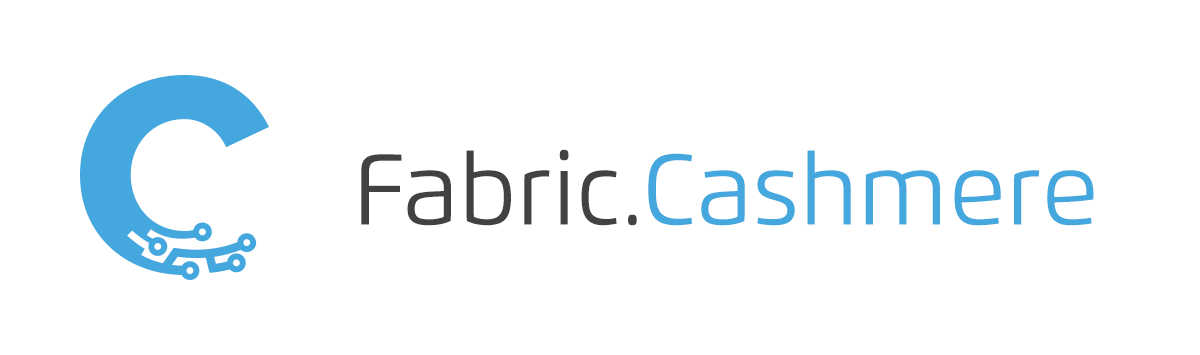
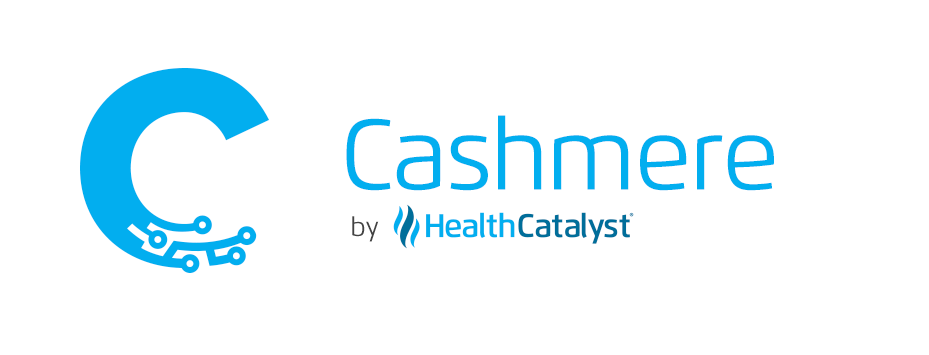
docs(site): fabric.cashmere to cashmere

Changed region(s): [[0.0624, 0.1859, 0.9365, 0.8056]]

diff --git a/src/index.html b/src/index.html
@@ -30,7 +30,7 @@
             @-webkit-keyframes fade { 0% { opacity: 0; } 100% { opacity: 1; } }
         </style>
         <div id="preBootstrap" class="center-children">
-            <div id="logoContainer" class="center-children fade"><svg id="logo" data-name="Fabric.Cashmere" xmlns="http://www.w3.org/2000/svg" viewBox="0 0 747.7 110.52"><defs></defs><title>Artboard 1</title><g id="J0wmsm"><path class="shape" d="M8.28,85V30.36c0-14.82,11.13-15.48,23-15.48,4.44,0,11.49.09,17.19.42v6H31c-12.87,0-15,2.31-15,13.38V46.22H47v6.27H16V85Z"/><path class="shape" d="M58,32.67a120.91,120.91,0,0,1,19.86-1.86c11.37,0,20.37,2.91,20.37,16.22V72.26c0,3.12-.12,6.18-.3,9.12-6.3,3.12-13.8,4.29-22.32,4.29-14.31,0-20.82-4.38-20.82-16,0-9.27,3.9-15.12,13.44-16.56,6.51-1,14.67-1.29,22.83-1.56V49.22c0-8.72-3-12.32-14.55-12.32a127.8,127.8,0,0,0-17.85,1.52ZM76.38,79.73a40.44,40.44,0,0,0,14.46-2.4c.15-2.55.21-5.88.21-8.4V57.05c-6.12.12-14.67.3-20.28,1.44-6.09,1.23-8.76,3.66-8.76,11C62,77.75,66.33,79.73,76.38,79.73Z"/><path class="shape" d="M113.83,10.89h7.26V32.82a58.6,58.6,0,0,1,14.76-2c16,0,22.41,7,22.41,27.41,0,20.82-7.11,27.45-24.09,27.45-6.72,0-14.19-1.2-20.07-4.29-.18-2.94-.27-6-.27-9.12Zm7.26,58c0,2.52.06,5.85.21,8.4a33.62,33.62,0,0,0,12.87,2.4c13.29,0,16.77-7.08,16.77-21.42,0-15-2.58-21.39-17.43-21.39a42,42,0,0,0-12.42,2.11Z"/><path class="shape" d="M171.49,85V44.21c0-3.12.09-6.17.3-9.11,5.88-3.09,13.32-4.29,20-4.29a43.63,43.63,0,0,1,5,.24l-.6,6.18a39,39,0,0,0-4.38-.21A33.74,33.74,0,0,0,179,39.44c-.15,2.52-.21,5.88-.21,8.4V85Z"/><path class="shape" d="M207,15.51c0-3.93,1-5.34,4.38-5.34s4.41,1.41,4.41,5.34-.93,5.28-4.41,5.28S207,19.44,207,15.51Zm.75,16H215V85h-7.29Z"/><path class="shape" d="M263.81,84.11a65.61,65.61,0,0,1-14,1.56c-18,0-21.33-12.66-21.33-28,0-17.48,4-26.84,23.25-26.84a45.39,45.39,0,0,1,12,1.53l-.6,5.58a56.61,56.61,0,0,0-8.91-.9c-16.71,0-18.33,5.84-18.33,20.63,0,13.89,1.23,21.72,18.24,21.72a49.57,49.57,0,0,0,9-1.14Z"/><path class="shape" d="M275.33,80.39c0-3.93,1-5.34,4.38-5.34s4.41,1.41,4.41,5.34-.93,5.28-4.41,5.28S275.33,84.32,275.33,80.39Z"/><path class="shape" d="M341.66,25.53a88.12,88.12,0,0,0-13.74-1.14C309.14,24.39,309,35.25,309,50s.15,25.62,18.93,25.62a88.12,88.12,0,0,0,13.74-1.14l1.08,9.27a75.5,75.5,0,0,1-17.55,1.92c-23,0-28.68-10.86-28.68-35.67s5.7-35.66,28.68-35.66a75.5,75.5,0,0,1,17.55,1.92Z"/><path class="shape" d="M352,69c0-9.33,4.05-15.18,14.37-16.74a176.19,176.19,0,0,1,18.93-1.41c0-7.41-3.24-11.12-11.37-11.12a153,153,0,0,0-18.57,1.34l-.93-8.33A123.35,123.35,0,0,1,375,30.81c11.76,0,21.45,3.21,21.45,16.82V71.18c0,3.51-.15,6.57-.45,9.81-6,3.36-13.92,4.68-23.88,4.68C357.63,85.67,352,80,352,69Zm33.3-10.71c-4.71.18-10.17.27-14.52,1.29-5.55,1.29-7.53,3-7.53,9.24,0,6.69,3.72,8.31,10.56,8.31,3.48,0,7.8-.27,11.16-1.83a68.48,68.48,0,0,0,.33-7.17Z"/><path class="shape" d="M435.12,70.34c0-6.12-5.49-6.63-10.47-8.16-8.58-2.61-16.73-4.8-16.73-16.29,0-11.72,8.24-15.08,18.83-15.08a79.25,79.25,0,0,1,19,2.07l-1.08,8.37a71.37,71.37,0,0,0-13.35-1.44c-4.32,0-12,0-12,5.45,0,5.61,6.48,6.6,10.92,8.1,9.12,3.09,16.5,4.8,16.5,16.56,0,12.33-9.12,15.75-20.82,15.75a82.86,82.86,0,0,1-18.45-2.1L408.51,75a90.34,90.34,0,0,0,14.22,1.47C427,76.49,435.12,76.64,435.12,70.34Z"/><path class="shape" d="M504.1,85H492.7V52c0-8.52-1.56-12.12-12.57-12.12A25.85,25.85,0,0,0,470.05,42V85h-11.4V10.89h11.4V32.82a43.71,43.71,0,0,1,13.2-2c18.87,0,20.85,8.79,20.85,19.88Z"/><path class="shape" d="M559.39,85H548v-33c0-8-1.92-12.09-10.56-12.09a20.54,20.54,0,0,0-8.19,1.77,68.48,68.48,0,0,0-.33,7.17V85H517.54V45.29c0-3.51.15-6.56.45-9.8,5.67-2.79,13.92-4.68,22.23-4.68,6.15,0,10.38,1.26,13.26,3.36a47.45,47.45,0,0,1,17.22-3.36c16.71,0,19.17,9.09,19.17,19.88V85h-11.4v-33c0-8-1.92-12.09-10.56-12.09a21.4,21.4,0,0,0-9.39,2.34,35.06,35.06,0,0,1,.87,8.52Z"/><path class="shape" d="M613.73,63.92c.6,10.29,6,12.69,14.25,12.69a152.2,152.2,0,0,0,19.17-1.38l1,8.49a134.31,134.31,0,0,1-23.07,2c-17.91,0-22.62-11.61-22.62-27.45,0-19.37,6-27.41,23.79-27.41,19.23,0,23.34,10.13,23.34,26.06,0,1.29,0,2.61-.15,4-6.12,1.08-18.87,2.34-26.25,2.67Zm10.44-8.28c3.93-.18,10.11-.69,13.8-1.2a23.06,23.06,0,0,0,.12-2.49c0-8.13-3-12.57-11.88-12.57-11.25,0-12.78,7.11-12.78,16.77Z"/><path class="shape" d="M673.23,85H661.86V45.29c0-3.51.15-6.56.45-9.8,6-3.36,14-4.68,21-4.68,1.77,0,3.42.06,5,.21l-.9,9.05a33.28,33.28,0,0,0-4.08-.21c-3.42,0-7.44.6-9.75,1.81a68.16,68.16,0,0,0-.33,7.16Z"/><path class="shape" d="M706.74,63.92c.6,10.29,6,12.69,14.25,12.69a152.2,152.2,0,0,0,19.17-1.38l1,8.49a134.31,134.31,0,0,1-23.07,2c-17.91,0-22.62-11.61-22.62-27.45,0-19.37,6-27.41,23.79-27.41,19.23,0,23.34,10.13,23.34,26.06,0,1.29,0,2.61-.15,4-6.12,1.08-18.87,2.34-26.25,2.67Zm10.44-8.28c3.93-.18,10.11-.69,13.8-1.2A23.06,23.06,0,0,0,731.1,52c0-8.13-3-12.57-11.88-12.57-11.25,0-12.78,7.11-12.78,16.77Z"/></g></svg></div>
+            <div id="logoContainer" class="center-children fade"><svg id="logo" data-name="Cashmere" xmlns="http://www.w3.org/2000/svg" viewBox="0 0 197.5 48.63"><defs><style>.cls-1{fill:#fff;}</style></defs><path class="cls-1" d="M23.41,11.23a39.16,39.16,0,0,0-6-.5C9.1,10.73,9,15.51,9,22s.06,11.27,8.33,11.27a38,38,0,0,0,6-.5l.48,4.08a33.15,33.15,0,0,1-7.72.85C6,37.7,3.55,32.92,3.55,22S6.05,6.31,16.17,6.31a33.76,33.76,0,0,1,7.72.84Z"/><path class="cls-1" d="M26.84,30.37c0-4.1,1.78-6.68,6.33-7.36a74.14,74.14,0,0,1,8.32-.62c0-3.26-1.42-4.9-5-4.9a68,68,0,0,0-8.17.59l-.41-3.67A54.67,54.67,0,0,1,37,13.56c5.17,0,9.43,1.41,9.43,7.4V31.32c0,1.55-.06,2.89-.19,4.32-2.63,1.48-6.13,2.06-10.51,2.06C29.34,37.7,26.84,35.2,26.84,30.37Zm14.65-4.71a35.79,35.79,0,0,0-6.38.57c-2.45.56-3.32,1.32-3.32,4.06,0,2.94,1.64,3.66,4.65,3.66a12.11,12.11,0,0,0,4.91-.81c.1-1,.14-2.1.14-3.15Z"/><path class="cls-1" d="M62.34,31c0-2.69-2.42-2.92-4.61-3.59-3.78-1.15-7.37-2.11-7.37-7.17s3.63-6.63,8.29-6.63a34.56,34.56,0,0,1,8.36.91l-.48,3.68a32,32,0,0,0-5.87-.63c-1.9,0-5.29,0-5.29,2.4s2.85,2.9,4.8,3.56c4,1.36,7.26,2.11,7.26,7.29,0,5.42-4,6.93-9.16,6.93a36.31,36.31,0,0,1-8.12-.93L50.63,33a39.79,39.79,0,0,0,6.25.65C58.75,33.66,62.34,33.72,62.34,31Z"/><path class="cls-1" d="M91.58,37.38h-5V22.9c0-3.75-.69-5.33-5.53-5.33a11.34,11.34,0,0,0-4.44.92V37.38h-5V4.79h5v9.65a19.31,19.31,0,0,1,5.81-.88c8.3,0,9.17,3.86,9.17,8.75Z"/><path class="cls-1" d="M114.81,37.38h-5V22.85c0-3.53-.85-5.32-4.65-5.32a9,9,0,0,0-3.6.78,28.93,28.93,0,0,0-.15,3.15V37.38h-5V19.93c0-1.54.07-2.89.2-4.32a23.38,23.38,0,0,1,9.78-2A9.72,9.72,0,0,1,112.21,15a21,21,0,0,1,7.58-1.47c7.35,0,8.43,4,8.43,8.75V37.38h-5V22.85c0-3.53-.85-5.32-4.65-5.32a9.36,9.36,0,0,0-4.13,1,15.43,15.43,0,0,1,.38,3.75Z"/><path class="cls-1" d="M137.62,28.13c.27,4.52,2.63,5.58,6.27,5.58a65.92,65.92,0,0,0,8.44-.61l.42,3.74a59,59,0,0,1-10.15.86c-7.88,0-9.95-5.11-9.95-12.08,0-8.53,2.64-12.06,10.46-12.06,8.46,0,10.27,4.46,10.27,11.47,0,.56,0,1.14-.06,1.74-2.7.47-8.31,1-11.55,1.17Zm4.6-3.65c1.73-.08,4.44-.3,6.07-.52a10.24,10.24,0,0,0,.05-1.1c0-3.58-1.32-5.53-5.23-5.53-5,0-5.62,3.13-5.62,7.38Z"/><path class="cls-1" d="M162.7,37.38h-5V19.93c0-1.54.07-2.89.2-4.32a19.74,19.74,0,0,1,9.24-2,21.74,21.74,0,0,1,2.19.09l-.4,4a16,16,0,0,0-1.79-.09,10.6,10.6,0,0,0-4.29.79,29,29,0,0,0-.15,3.16Z"/><path class="cls-1" d="M176.35,28.13c.26,4.52,2.62,5.58,6.27,5.58a65.75,65.75,0,0,0,8.43-.61l.42,3.74a58.87,58.87,0,0,1-10.15.86c-7.88,0-9.95-5.11-9.95-12.08,0-8.53,2.64-12.06,10.47-12.06,8.46,0,10.27,4.46,10.27,11.47,0,.56,0,1.14-.07,1.74-2.69.47-8.3,1-11.55,1.17Zm4.59-3.65c1.73-.08,4.45-.3,6.07-.52a10.24,10.24,0,0,0,.05-1.1c0-3.58-1.32-5.53-5.22-5.53-5,0-5.63,3.13-5.63,7.38Z"/></svg></div>
             <svg id="triflame" class="fade" version="1.1" xmlns="http://www.w3.org/2000/svg" x="0px" y="0px" viewBox="0 0 11.1 18.5" style="enable-background:new 0 0 11.1 18.5;" xml:space="preserve"><style type="text/css"> .st0{fill:#FFFFFF;} </style> <path class="st0" d="M5.7,18.3c-0.6-0.3-1.1-0.7-1.5-1.2c-0.4-0.5-0.8-1.1-1-1.8c-0.2-0.7-0.4-1.4-0.4-2.2c0-4.6,3.8-7,3.4-11.6 c0-0.3,0-0.5-0.1-0.8C5.9,0.5,5.8,0.3,5.7,0.2c0.6,0.3,1.1,0.7,1.5,1.2c0.4,0.5,0.8,1.1,1,1.8c0.2,0.7,0.4,1.4,0.4,2.2 c0,3.9-3.6,6.8-3.6,11c0,0.4,0.1,0.8,0.2,1.1C5.3,17.8,5.4,18.1,5.7,18.3"/> <path class="st0" d="M9.1,18.1c-0.4-0.2-0.7-0.5-1-0.8c-0.3-0.3-0.5-0.7-0.7-1.2c-0.2-0.4-0.2-0.9-0.2-1.5c0-3.1,2.8-4.8,2.4-8.7 c0.5,0.5,1,1.4,1.3,2C10.9,8.3,11,8.8,11,9.3c0,2.6-2.4,4.6-2.4,7.4c0,0.3,0,0.5,0.1,0.7C8.8,17.7,8.9,17.9,9.1,18.1"/> <path class="st0" d="M2,12.9c-0.4-0.2-0.7-0.5-1-0.8c-0.3-0.3-0.5-0.7-0.7-1.2C0.2,10.4,0.1,10,0.1,9.4c0-3.1,2.8-4.8,2.4-8.7 c0.5,0.5,1,1.4,1.3,2C3.9,3.2,4,3.6,4,4.2c0,2.6-2.4,4.6-2.4,7.4c0,0.3,0,0.5,0.1,0.7C1.8,12.5,1.9,12.7,2,12.9"/> </svg>
             <div id="hcSplashSpinner" class="fade-spin"></div>
         </div>

diff --git a/projects/cashmere-examples/src/lib/form-field-labels/form-field-labels-example.component.html b/projects/cashmere-examples/src/lib/form-field-labels/form-field-labels-example.component.html
@@ -15,7 +15,7 @@
             <hc-label>Additional label extension uses:</hc-label>
             <hc-label-ext>
                 <span>Label extensions may include supporting content like images</span>
-                <img src="https://cashmere.healthcatalyst.net/assets/FabricCashmere.svg" alt="Fabric.Cashmere Title"/>
+                <img src="https://cashmere.healthcatalyst.net/assets/Cashmere.svg" alt="Cashmere Title"/>
             </hc-label-ext>
             <hc-select placeholder="Select a version:" required>
                 <option value="daily">Latest</option>

diff --git a/src/app/home/home.component.scss b/src/app/home/home.component.scss
@@ -38,12 +38,6 @@ p {
     width: 175px;
 }
 
-.headerCopy {
-    font-weight: 300;
-    margin-top: 0;
-    margin-bottom: 25px;
-}
-
 .headerRight {
     display: flex;
     width: 100%;
@@ -65,9 +59,9 @@ p {
 }
 
 .headerRight img {
-    height: 55px;
-    width: 372px;
-    margin-top: 10px;
+    height: 115px;
+    width: 350px;
+    margin: 7px 0 15px;
 }
 
 @include media-breakpoint-down(md) {
@@ -102,10 +96,6 @@ p {
     }
 
     .headerRight img {
-        width: 100%;
-    }
-
-    .headerCopy {
         width: 100%;
     }
 

diff --git a/src/app/home/home.component.html b/src/app/home/home.component.html
@@ -3,8 +3,7 @@
         <img src="./assets/CashmereLogo.svg" alt="Fabric.Cashmere Logo" />
     </span>
     <span class="headerRight">
-        <img src="./assets/FabricCashmere.svg" alt="Fabric.Cashmere Title" />
-        <p class="headerCopy">Health Catalyst's living style guide for Angular</p>
+        <img src="./assets/Cashmere.svg" alt="Cashmere Title" />
         <hc-form-field tight="true">
             <hc-icon hcPrefix fontSet="fa" fontIcon="fa-search" class="searchIcon"></hc-icon>
             <input

diff --git a/src/app/app.component.scss b/src/app/app.component.scss
@@ -39,10 +39,10 @@
 }
 
 .results-icon {
-    font-size: 30px;
+    font-size: 28px;
     padding: 0;
-    height: auto;
-    width: 25px;
+    height: 25px;
+    width: 40px;
     color: $slate-gray-300;
 }
 

diff --git a/projects/cashmere/src/lib/sass/about-modal.scss b/projects/cashmere/src/lib/sass/about-modal.scss
@@ -41,7 +41,7 @@
 
 .about-name img {
     height: 24px;
-    width: 157px;
+    width: 97px;
     margin-left: -2px;
 }
 

diff --git a/guides/styles/launch-screen.md b/guides/styles/launch-screen.md
@@ -26,7 +26,7 @@ Cashmere applications have a recommended look and feel for the initial loading s
     @-webkit-keyframes fade { 0% { opacity: 0; } 100% { opacity: 1; } }
 </style>
 <div id="preBootstrap" class="center-children">
-    <div id="logoContainer" class="center-children fade"><svg id="logo" data-name="Fabric.Cashmere" xmlns="http://www.w3.org/2000/svg" viewBox="0 0 747.7 110.52"><defs></defs><title>Artboard 1</title><g id="J0wmsm"><path class="shape" d="M8.28,85V30.36c0-14.82,11.13-15.48,23-15.48,4.44,0,11.49.09,17.19.42v6H31c-12.87,0-15,2.31-15,13.38V46.22H47v6.27H16V85Z"/><path class="shape" d="M58,32.67a120.91,120.91,0,0,1,19.86-1.86c11.37,0,20.37,2.91,20.37,16.22V72.26c0,3.12-.12,6.18-.3,9.12-6.3,3.12-13.8,4.29-22.32,4.29-14.31,0-20.82-4.38-20.82-16,0-9.27,3.9-15.12,13.44-16.56,6.51-1,14.67-1.29,22.83-1.56V49.22c0-8.72-3-12.32-14.55-12.32a127.8,127.8,0,0,0-17.85,1.52ZM76.38,79.73a40.44,40.44,0,0,0,14.46-2.4c.15-2.55.21-5.88.21-8.4V57.05c-6.12.12-14.67.3-20.28,1.44-6.09,1.23-8.76,3.66-8.76,11C62,77.75,66.33,79.73,76.38,79.73Z"/><path class="shape" d="M113.83,10.89h7.26V32.82a58.6,58.6,0,0,1,14.76-2c16,0,22.41,7,22.41,27.41,0,20.82-7.11,27.45-24.09,27.45-6.72,0-14.19-1.2-20.07-4.29-.18-2.94-.27-6-.27-9.12Zm7.26,58c0,2.52.06,5.85.21,8.4a33.62,33.62,0,0,0,12.87,2.4c13.29,0,16.77-7.08,16.77-21.42,0-15-2.58-21.39-17.43-21.39a42,42,0,0,0-12.42,2.11Z"/><path class="shape" d="M171.49,85V44.21c0-3.12.09-6.17.3-9.11,5.88-3.09,13.32-4.29,20-4.29a43.63,43.63,0,0,1,5,.24l-.6,6.18a39,39,0,0,0-4.38-.21A33.74,33.74,0,0,0,179,39.44c-.15,2.52-.21,5.88-.21,8.4V85Z"/><path class="shape" d="M207,15.51c0-3.93,1-5.34,4.38-5.34s4.41,1.41,4.41,5.34-.93,5.28-4.41,5.28S207,19.44,207,15.51Zm.75,16H215V85h-7.29Z"/><path class="shape" d="M263.81,84.11a65.61,65.61,0,0,1-14,1.56c-18,0-21.33-12.66-21.33-28,0-17.48,4-26.84,23.25-26.84a45.39,45.39,0,0,1,12,1.53l-.6,5.58a56.61,56.61,0,0,0-8.91-.9c-16.71,0-18.33,5.84-18.33,20.63,0,13.89,1.23,21.72,18.24,21.72a49.57,49.57,0,0,0,9-1.14Z"/><path class="shape" d="M275.33,80.39c0-3.93,1-5.34,4.38-5.34s4.41,1.41,4.41,5.34-.93,5.28-4.41,5.28S275.33,84.32,275.33,80.39Z"/><path class="shape" d="M341.66,25.53a88.12,88.12,0,0,0-13.74-1.14C309.14,24.39,309,35.25,309,50s.15,25.62,18.93,25.62a88.12,88.12,0,0,0,13.74-1.14l1.08,9.27a75.5,75.5,0,0,1-17.55,1.92c-23,0-28.68-10.86-28.68-35.67s5.7-35.66,28.68-35.66a75.5,75.5,0,0,1,17.55,1.92Z"/><path class="shape" d="M352,69c0-9.33,4.05-15.18,14.37-16.74a176.19,176.19,0,0,1,18.93-1.41c0-7.41-3.24-11.12-11.37-11.12a153,153,0,0,0-18.57,1.34l-.93-8.33A123.35,123.35,0,0,1,375,30.81c11.76,0,21.45,3.21,21.45,16.82V71.18c0,3.51-.15,6.57-.45,9.81-6,3.36-13.92,4.68-23.88,4.68C357.63,85.67,352,80,352,69Zm33.3-10.71c-4.71.18-10.17.27-14.52,1.29-5.55,1.29-7.53,3-7.53,9.24,0,6.69,3.72,8.31,10.56,8.31,3.48,0,7.8-.27,11.16-1.83a68.48,68.48,0,0,0,.33-7.17Z"/><path class="shape" d="M435.12,70.34c0-6.12-5.49-6.63-10.47-8.16-8.58-2.61-16.73-4.8-16.73-16.29,0-11.72,8.24-15.08,18.83-15.08a79.25,79.25,0,0,1,19,2.07l-1.08,8.37a71.37,71.37,0,0,0-13.35-1.44c-4.32,0-12,0-12,5.45,0,5.61,6.48,6.6,10.92,8.1,9.12,3.09,16.5,4.8,16.5,16.56,0,12.33-9.12,15.75-20.82,15.75a82.86,82.86,0,0,1-18.45-2.1L408.51,75a90.34,90.34,0,0,0,14.22,1.47C427,76.49,435.12,76.64,435.12,70.34Z"/><path class="shape" d="M504.1,85H492.7V52c0-8.52-1.56-12.12-12.57-12.12A25.85,25.85,0,0,0,470.05,42V85h-11.4V10.89h11.4V32.82a43.71,43.71,0,0,1,13.2-2c18.87,0,20.85,8.79,20.85,19.88Z"/><path class="shape" d="M559.39,85H548v-33c0-8-1.92-12.09-10.56-12.09a20.54,20.54,0,0,0-8.19,1.77,68.48,68.48,0,0,0-.33,7.17V85H517.54V45.29c0-3.51.15-6.56.45-9.8,5.67-2.79,13.92-4.68,22.23-4.68,6.15,0,10.38,1.26,13.26,3.36a47.45,47.45,0,0,1,17.22-3.36c16.71,0,19.17,9.09,19.17,19.88V85h-11.4v-33c0-8-1.92-12.09-10.56-12.09a21.4,21.4,0,0,0-9.39,2.34,35.06,35.06,0,0,1,.87,8.52Z"/><path class="shape" d="M613.73,63.92c.6,10.29,6,12.69,14.25,12.69a152.2,152.2,0,0,0,19.17-1.38l1,8.49a134.31,134.31,0,0,1-23.07,2c-17.91,0-22.62-11.61-22.62-27.45,0-19.37,6-27.41,23.79-27.41,19.23,0,23.34,10.13,23.34,26.06,0,1.29,0,2.61-.15,4-6.12,1.08-18.87,2.34-26.25,2.67Zm10.44-8.28c3.93-.18,10.11-.69,13.8-1.2a23.06,23.06,0,0,0,.12-2.49c0-8.13-3-12.57-11.88-12.57-11.25,0-12.78,7.11-12.78,16.77Z"/><path class="shape" d="M673.23,85H661.86V45.29c0-3.51.15-6.56.45-9.8,6-3.36,14-4.68,21-4.68,1.77,0,3.42.06,5,.21l-.9,9.05a33.28,33.28,0,0,0-4.08-.21c-3.42,0-7.44.6-9.75,1.81a68.16,68.16,0,0,0-.33,7.16Z"/><path class="shape" d="M706.74,63.92c.6,10.29,6,12.69,14.25,12.69a152.2,152.2,0,0,0,19.17-1.38l1,8.49a134.31,134.31,0,0,1-23.07,2c-17.91,0-22.62-11.61-22.62-27.45,0-19.37,6-27.41,23.79-27.41,19.23,0,23.34,10.13,23.34,26.06,0,1.29,0,2.61-.15,4-6.12,1.08-18.87,2.34-26.25,2.67Zm10.44-8.28c3.93-.18,10.11-.69,13.8-1.2A23.06,23.06,0,0,0,731.1,52c0-8.13-3-12.57-11.88-12.57-11.25,0-12.78,7.11-12.78,16.77Z"/></g></svg></div>
+    <div id="logoContainer" class="center-children fade"><svg id="logo" data-name="Cashmere" xmlns="http://www.w3.org/2000/svg" viewBox="0 0 197.5 48.63"><defs><style>.cls-1{fill:#fff;}</style></defs><path class="cls-1" d="M23.41,11.23a39.16,39.16,0,0,0-6-.5C9.1,10.73,9,15.51,9,22s.06,11.27,8.33,11.27a38,38,0,0,0,6-.5l.48,4.08a33.15,33.15,0,0,1-7.72.85C6,37.7,3.55,32.92,3.55,22S6.05,6.31,16.17,6.31a33.76,33.76,0,0,1,7.72.84Z"/><path class="cls-1" d="M26.84,30.37c0-4.1,1.78-6.68,6.33-7.36a74.14,74.14,0,0,1,8.32-.62c0-3.26-1.42-4.9-5-4.9a68,68,0,0,0-8.17.59l-.41-3.67A54.67,54.67,0,0,1,37,13.56c5.17,0,9.43,1.41,9.43,7.4V31.32c0,1.55-.06,2.89-.19,4.32-2.63,1.48-6.13,2.06-10.51,2.06C29.34,37.7,26.84,35.2,26.84,30.37Zm14.65-4.71a35.79,35.79,0,0,0-6.38.57c-2.45.56-3.32,1.32-3.32,4.06,0,2.94,1.64,3.66,4.65,3.66a12.11,12.11,0,0,0,4.91-.81c.1-1,.14-2.1.14-3.15Z"/><path class="cls-1" d="M62.34,31c0-2.69-2.42-2.92-4.61-3.59-3.78-1.15-7.37-2.11-7.37-7.17s3.63-6.63,8.29-6.63a34.56,34.56,0,0,1,8.36.91l-.48,3.68a32,32,0,0,0-5.87-.63c-1.9,0-5.29,0-5.29,2.4s2.85,2.9,4.8,3.56c4,1.36,7.26,2.11,7.26,7.29,0,5.42-4,6.93-9.16,6.93a36.31,36.31,0,0,1-8.12-.93L50.63,33a39.79,39.79,0,0,0,6.25.65C58.75,33.66,62.34,33.72,62.34,31Z"/><path class="cls-1" d="M91.58,37.38h-5V22.9c0-3.75-.69-5.33-5.53-5.33a11.34,11.34,0,0,0-4.44.92V37.38h-5V4.79h5v9.65a19.31,19.31,0,0,1,5.81-.88c8.3,0,9.17,3.86,9.17,8.75Z"/><path class="cls-1" d="M114.81,37.38h-5V22.85c0-3.53-.85-5.32-4.65-5.32a9,9,0,0,0-3.6.78,28.93,28.93,0,0,0-.15,3.15V37.38h-5V19.93c0-1.54.07-2.89.2-4.32a23.38,23.38,0,0,1,9.78-2A9.72,9.72,0,0,1,112.21,15a21,21,0,0,1,7.58-1.47c7.35,0,8.43,4,8.43,8.75V37.38h-5V22.85c0-3.53-.85-5.32-4.65-5.32a9.36,9.36,0,0,0-4.13,1,15.43,15.43,0,0,1,.38,3.75Z"/><path class="cls-1" d="M137.62,28.13c.27,4.52,2.63,5.58,6.27,5.58a65.92,65.92,0,0,0,8.44-.61l.42,3.74a59,59,0,0,1-10.15.86c-7.88,0-9.95-5.11-9.95-12.08,0-8.53,2.64-12.06,10.46-12.06,8.46,0,10.27,4.46,10.27,11.47,0,.56,0,1.14-.06,1.74-2.7.47-8.31,1-11.55,1.17Zm4.6-3.65c1.73-.08,4.44-.3,6.07-.52a10.24,10.24,0,0,0,.05-1.1c0-3.58-1.32-5.53-5.23-5.53-5,0-5.62,3.13-5.62,7.38Z"/><path class="cls-1" d="M162.7,37.38h-5V19.93c0-1.54.07-2.89.2-4.32a19.74,19.74,0,0,1,9.24-2,21.74,21.74,0,0,1,2.19.09l-.4,4a16,16,0,0,0-1.79-.09,10.6,10.6,0,0,0-4.29.79,29,29,0,0,0-.15,3.16Z"/><path class="cls-1" d="M176.35,28.13c.26,4.52,2.62,5.58,6.27,5.58a65.75,65.75,0,0,0,8.43-.61l.42,3.74a58.87,58.87,0,0,1-10.15.86c-7.88,0-9.95-5.11-9.95-12.08,0-8.53,2.64-12.06,10.47-12.06,8.46,0,10.27,4.46,10.27,11.47,0,.56,0,1.14-.07,1.74-2.69.47-8.3,1-11.55,1.17Zm4.59-3.65c1.73-.08,4.45-.3,6.07-.52a10.24,10.24,0,0,0,.05-1.1c0-3.58-1.32-5.53-5.22-5.53-5,0-5.63,3.13-5.63,7.38Z"/></svg></div>
     <svg id="triflame" class="fade" version="1.1" xmlns="http://www.w3.org/2000/svg" x="0px" y="0px" viewBox="0 0 11.1 18.5" style="enable-background:new 0 0 11.1 18.5;" xml:space="preserve"><style type="text/css"> .st0{fill:#FFFFFF;} </style> <path class="st0" d="M5.7,18.3c-0.6-0.3-1.1-0.7-1.5-1.2c-0.4-0.5-0.8-1.1-1-1.8c-0.2-0.7-0.4-1.4-0.4-2.2c0-4.6,3.8-7,3.4-11.6 c0-0.3,0-0.5-0.1-0.8C5.9,0.5,5.8,0.3,5.7,0.2c0.6,0.3,1.1,0.7,1.5,1.2c0.4,0.5,0.8,1.1,1,1.8c0.2,0.7,0.4,1.4,0.4,2.2 c0,3.9-3.6,6.8-3.6,11c0,0.4,0.1,0.8,0.2,1.1C5.3,17.8,5.4,18.1,5.7,18.3"/> <path class="st0" d="M9.1,18.1c-0.4-0.2-0.7-0.5-1-0.8c-0.3-0.3-0.5-0.7-0.7-1.2c-0.2-0.4-0.2-0.9-0.2-1.5c0-3.1,2.8-4.8,2.4-8.7 c0.5,0.5,1,1.4,1.3,2C10.9,8.3,11,8.8,11,9.3c0,2.6-2.4,4.6-2.4,7.4c0,0.3,0,0.5,0.1,0.7C8.8,17.7,8.9,17.9,9.1,18.1"/> <path class="st0" d="M2,12.9c-0.4-0.2-0.7-0.5-1-0.8c-0.3-0.3-0.5-0.7-0.7-1.2C0.2,10.4,0.1,10,0.1,9.4c0-3.1,2.8-4.8,2.4-8.7 c0.5,0.5,1,1.4,1.3,2C3.9,3.2,4,3.6,4,4.2c0,2.6-2.4,4.6-2.4,7.4c0,0.3,0,0.5,0.1,0.7C1.8,12.5,1.9,12.7,2,12.9"/> </svg>
     <div id="hcSplashSpinner" class="fade-spin"></div>
 </div>
